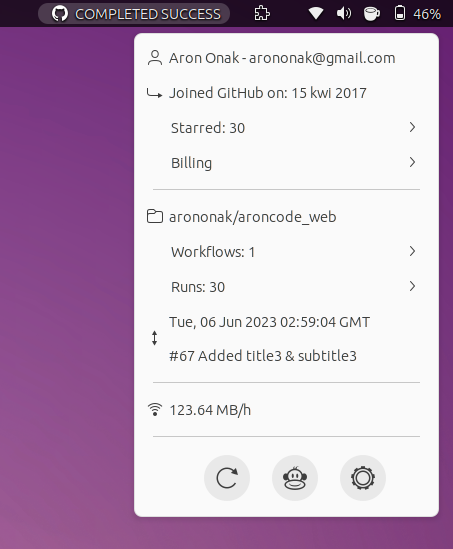
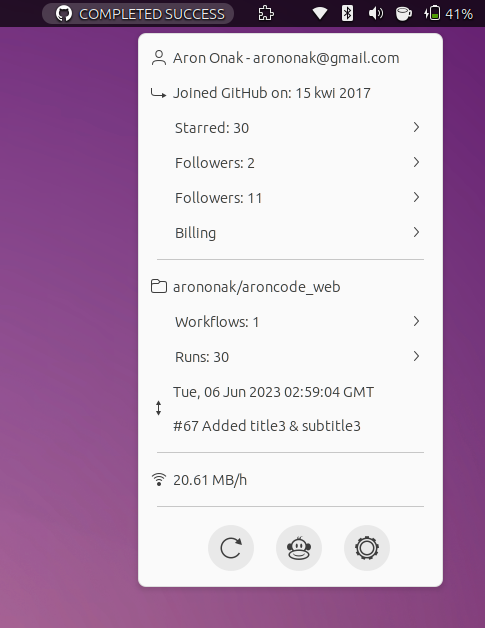
Added user followers / following sections

diff --git a/github-actions@arononak.github.io/extension.js b/github-actions@arononak.github.io/extension.js
@@ -53,8 +53,12 @@ async function coldRefresh(settings, indicator) {
 
         const login = user['login'];
         const starredList = await dataRepository.fetchUserStarred(login);
-
         indicator.setUserStarred(starredList);
+
+        const followers = await dataRepository.fetchUserFollowers();
+        indicator.setUserFollowers(followers);
+        const following = await dataRepository.fetchUserFollowing();
+        indicator.setUserFollowing(following);
     } catch (error) {
         logError(error);
     }
@@ -199,6 +203,22 @@ const Indicator = GObject.registerClass(
             this.starredMenuItem.menu.box.add_actor(this.starredScrollView);
             this.menu.addMenuItem(this.starredMenuItem);
 
+            /// Followers
+            this.followersScrollView = new St.ScrollView({ y_align: Clutter.ActorAlign.START, y_expand: true, overlay_scrollbars: true });
+            this.followersMenuBox = new St.BoxLayout({ vertical: true, style_class: 'menu-box' });
+            this.followersScrollView.add_actor(this.followersMenuBox);
+            this.followersMenuItem = new PopupMenu.PopupSubMenuMenuItem(loadingText);
+            this.followersMenuItem.menu.box.add_actor(this.followersScrollView);
+            this.menu.addMenuItem(this.followersMenuItem);
+
+            /// Following
+            this.followingScrollView = new St.ScrollView({ y_align: Clutter.ActorAlign.START, y_expand: true, overlay_scrollbars: true });
+            this.followingMenuBox = new St.BoxLayout({ vertical: true, style_class: 'menu-box' });
+            this.followingScrollView.add_actor(this.followingMenuBox);
+            this.followingMenuItem = new PopupMenu.PopupSubMenuMenuItem(loadingText);
+            this.followingMenuItem.menu.box.add_actor(this.followingScrollView);
+            this.menu.addMenuItem(this.followingMenuItem);
+
             /// Billing
             this.billingScrollView = new St.ScrollView({ y_align: Clutter.ActorAlign.START, y_expand: true, overlay_scrollbars: true });
             this.billingMenuBox = new St.BoxLayout({ vertical: true, style_class: 'menu-box' });
@@ -325,6 +345,28 @@ const Indicator = GObject.registerClass(
                 const item = new PopupMenu.PopupImageMenuItem(element['full_name'], 'starred-symbolic');
                 item.connect('activate', () => utils.openUrl(element['html_url']));
                 this.starredMenuBox.add_actor(item);
+            });
+        }
+
+        setUserFollowers(followers) {
+            this.followersMenuBox.remove_all_children();
+            this.followersMenuItem.label.text = 'Followers: ' + followers.length;
+
+            followers.forEach((element) => {
+                const item = new PopupMenu.PopupImageMenuItem(element['login'], 'system-users-symbolic');
+                item.connect('activate', () => utils.openUrl(element['html_url']));
+                this.followersMenuBox.add_actor(item);
+            });
+        }
+
+        setUserFollowing(following) {
+            this.followingMenuBox.remove_all_children();
+            this.followingMenuItem.label.text = 'Followers: ' + following.length;
+
+            following.forEach((element) => {
+                const item = new PopupMenu.PopupImageMenuItem(element['login'], 'system-users-symbolic');
+                item.connect('activate', () => utils.openUrl(element['html_url']));
+                this.followingMenuBox.add_actor(item);
             });
         }
 

diff --git a/github-actions@arononak.github.io/data_repository.js b/github-actions@arononak.github.io/data_repository.js
@@ -15,6 +15,16 @@ var fetchUserStarred = async function (username) {
     return executeGithubCliCommand('/users/' + username + '/starred');
 }
 
+/// User followers
+var fetchUserFollowers = async function () {
+    return executeGithubCliCommand('/user/followers');
+}
+
+/// User following
+var fetchUserFollowing = async function () {
+    return executeGithubCliCommand('/user/following');
+}
+
 /// User billing
 var fetchUserBillingActionsMinutes = async function (username) {
     return executeGithubCliCommand('/users/' + username + '/settings/billing/actions');
